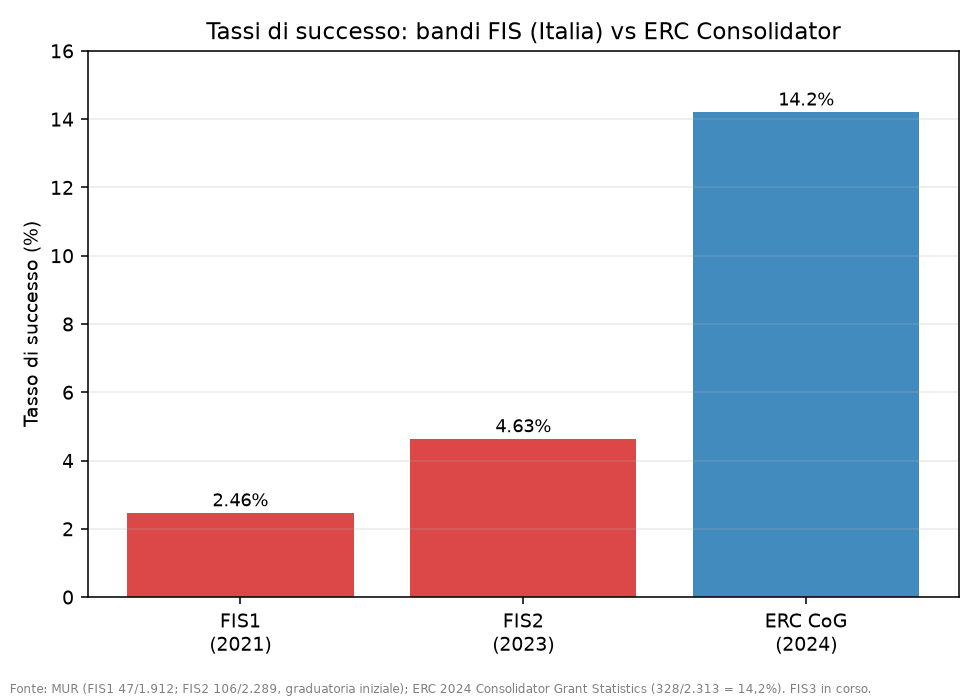
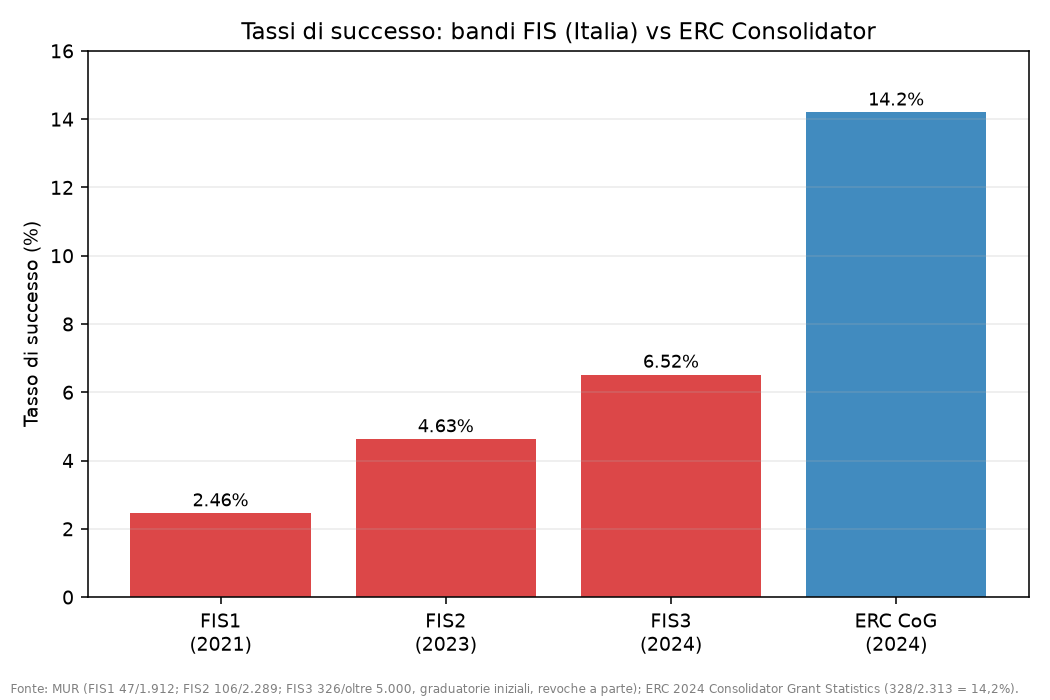
FIS3 esiti: completa F5 (326 su >5.000 = 6,52%)
Numeri ufficiali MUR (17/12/2025): FIS3 = 326 progetti finanziati su oltre
5.000 candidature (>432M), graduatorie nov.2025 (DD 18008 LS/18010 PE/18169
SH). Conferma il "326 su 5.000" citato nei PP. Successo 6,52%.

Trend FIS 2,46% -> 4,63% -> 6,52% (cresce col budget, ancora << 14,2% ERC).
F5 con la terza barra FIS3. Revoche 2026 tenute a parte (tasso = graduatoria
originale). B3 e F5 -> [V]. PDF graduatorie in sources/.

diff --git a/universita/analisi/2026-07-18_verifiche_fonti/figures/build_figures.py b/universita/analisi/2026-07-18_verifiche_fonti/figures/build_figures.py
@@ -36,18 +36,18 @@ fig.text(0.01, 0.01, "Fonte: DM 595/2025, TABELLA 1 (nostra elaborazione, 68 ate
 fig.tight_layout(rect=(0, 0.03, 1, 1)); fig.savefig(os.path.join(HERE, "f3_premiale_ffo.png"), dpi=140); plt.close(fig)
 
 # ---------- F5 — tassi di successo FIS vs ERC ----------
-labels = ["FIS1\n(2021)", "FIS2\n(2023)", "ERC CoG\n(2024)"]
-vals = [2.46, 4.63, 14.2]
-colors = ["#d62728", "#d62728", "#1f77b4"]
-fig, ax = plt.subplots(figsize=(7, 5))
+labels = ["FIS1\n(2021)", "FIS2\n(2023)", "FIS3\n(2024)", "ERC CoG\n(2024)"]
+vals = [2.46, 4.63, 6.52, 14.2]
+colors = ["#d62728", "#d62728", "#d62728", "#1f77b4"]
+fig, ax = plt.subplots(figsize=(7.5, 5))
 bars = ax.bar(labels, vals, color=colors, alpha=0.85)
 for b, v in zip(bars, vals):
     ax.text(b.get_x() + b.get_width() / 2, v + 0.2, f"{v}%", ha="center", fontsize=9)
 ax.set_ylabel("Tasso di successo (%)")
 ax.set_title("Tassi di successo: bandi FIS (Italia) vs ERC Consolidator")
 ax.set_ylim(0, 16); ax.grid(alpha=0.25, axis="y")
-fig.text(0.01, 0.01, "Fonte: MUR (FIS1 47/1.912; FIS2 106/2.289, graduatoria iniziale); ERC 2024 Consolidator Grant Statistics (328/2.313 = 14,2%). "
-         "FIS3 in corso.", fontsize=6, color="gray")
+fig.text(0.01, 0.01, "Fonte: MUR (FIS1 47/1.912; FIS2 106/2.289; FIS3 326/oltre 5.000, graduatorie iniziali, revoche a parte); "
+         "ERC 2024 Consolidator Grant Statistics (328/2.313 = 14,2%).", fontsize=6, color="gray")
 fig.tight_layout(rect=(0, 0.03, 1, 1)); fig.savefig(os.path.join(HERE, "f5_successo_fis_erc.png"), dpi=140); plt.close(fig)
 
 # ---------- F6 — precarizzazione (quota TD del personale di ruolo) ----------

diff --git a/universita/analisi/2026-07-18_verifiche_fonti/b3_fis_esiti_nota.md b/universita/analisi/2026-07-18_verifiche_fonti/b3_fis_esiti_nota.md
@@ -17,14 +17,14 @@ Lo **Starting Grant** (ricercatori emergenti) è **la quota maggiore** del ripar
 |---|---|---|---|
 | FIS1 | 1.912 | 47 | **2,46%** |
 | FIS2 | 2.289 | 106 | **4,63%** (iniziale; poi scorrimenti) |
-| FIS3 | [C] da graduatorie | ~330 (stima da budget/taglia) [C] | [C] (atteso ↑ per budget 475M) |
+| FIS3 | oltre 5.000 | **326** | **6,52%** |
 
-Tassi bassissimi vs benchmark ERC (~14-15%): coerente col claim del report "lotterie" a fronte di scala insufficiente. FIS3, col budget quasi decuplicato rispetto a FIS1, dovrebbe alzare il tasso — da confermare sulle graduatorie.
+Trend crescente col budget: **2,46% → 4,63% → 6,52%**, ma ancora **ben sotto l'ERC (14,2%)**: coerente col claim "lotterie a fronte di scala insufficiente". FIS3: 326 progetti su oltre 5.000 candidature, >432M (graduatorie nov.2025 DD 18008/18010/18169; scorrimenti successivi; **revoche 2026 a parte, non nette** nel tasso).
 
 **Revoche 2026:** come da istruzione, i "finanziati" sono quelli di **graduatoria originale**; le revoche 2026 (presenti per FIS3) vanno contate **a parte**, non nette — così il tasso di successo resta quello del bando. Conteggio revoche: **pendente** (richiede i decreti di revoca).
 
-## Pendenze per completare F5
-FIS3 domande + finanziati per macrosettore (DD 18008 LS / 18010 PE / 18169 SH del nov.2025) e conteggio revoche 2026 → parsing PDF graduatorie. Con quelli, F5 = tassi di successo FIS per edizione/schema vs ERC/NWO.
+## F5 completata
+`figures/f5_successo_fis_erc.png` con la terza barra FIS3 (6,52%). Restano fuori (minori): breakdown domande/finanziati **per schema** dentro ciascuna edizione e conteggio esatto delle **revoche 2026** (i decreti di graduatoria sono testo, la lista progetti è in allegati separati non pubblicati come PDF-tabella).
 
 ## Riga per la lista v2 (corretta)
 §3.2 (FIS): azione **additiva, nessuna rimozione** — il report v1 non contiene l'insinuazione "riparto anti-giovani" (stava nel PP Bandi archiviato; il §3.2 critica già solo la discontinuità). **Aggiungere i tassi verificati:** *"tassi di successo del 2,46% (FIS1) e 4,63% (FIS2), contro circa il 15% dell'ERC [fonte da ancorare]"* — rende quantitativo l'argomento "lotteria". Il riparto per schema (Starting ~50%) resta come dato interno a supporto, non come tesi.

diff --git a/universita/note/stato_verifiche.md b/universita/note/stato_verifiche.md
@@ -23,7 +23,7 @@ Convenzione file: dati verificati in `analisi/<data>_.../data/*.csv` con fonte/a
 | B12 | RTT passaggio PA: 3° o 4° anno | **[V]** | art.24 c.5 L.240/2010: **TERZO anno** (post L.79/2022: dal 3° e successivi); c.5-bis anticipo dopo il 1° con prova didattica. Report "quarto"→**terzo** | `.../b8_b12_giuridiche_nota.md` |
 | F4 | Bandi competitivi IT vs DFG/ANR/SNSF/NWO/UKRI | **[V]** | budget agenzie verificati; gap "4-6x" difendibile ma conservativo (a regime, per ab., vs DE); fino a ~10x vs CH/NL | report agenzie (DFG/ANR/SNSF/NWO/UKRI) → `analisi/2026-07-18_verifiche_fonti/data/f4_bandi_competitivi_confronto.csv` + `f4_..._nota.md` |
 | F2 | FFO reale 2019-25 | **[V]** | figura resa | `.../figures/f2_ffo_reale.png` (+ `.py`) |
-| F3,F5,F6 | Figure premiale / successo FIS / precariato | **[V]** (F5 parz.) | F3 scatter premiale/FFO [V]; F5 FIS 2,46/4,63% vs **ERC CoG 14,2%** [ancorato] (FIS3 in corso); F6 RTD 4,1%→11,2% (ANVUR) | `figures/f3_*,f5_*,f6_*.png` |
+| F3,F5,F6 | Figure premiale / successo FIS / precariato | **[V]** | F3 scatter premiale/FFO; F5 FIS 2,46/4,63/**6,52%** vs ERC 14,2% (3 barre FIS + ERC); F6 RTD 4,1%→11,2% | `figures/f3_*,f5_*,f6_*.png` |
 | §2.1 | Simulazione premiale 50% (beneficiari Sud) | **⚠ CONTRADDIZIONE** (3 stress test) | a criteri invariati: Nord **+0,42%** / Sud **−0,74%** / Isole −0,16% dell'FFO → il "Sud beneficiario netto" è **falso** sul 2025; ma Federico II +8M, Cagliari/Messina vincono. Riformulare §2.1 (traiettoria+perequativo+campioni) | DM 595/2025 TAB1 → `.../sim_premiale50_nota.md` |
 | D | Tabella costi §8 | **[V parz.]** | assemblata: baseline bandi 0,41 (B2), gratuità **1,2-1,3** (B11, era 1,5-2), spesa terziaria gap ~8,8 mld (B6); totale ~12-14. NO coperture (R-Z1) | `.../data/tabella_costi.csv` |
 